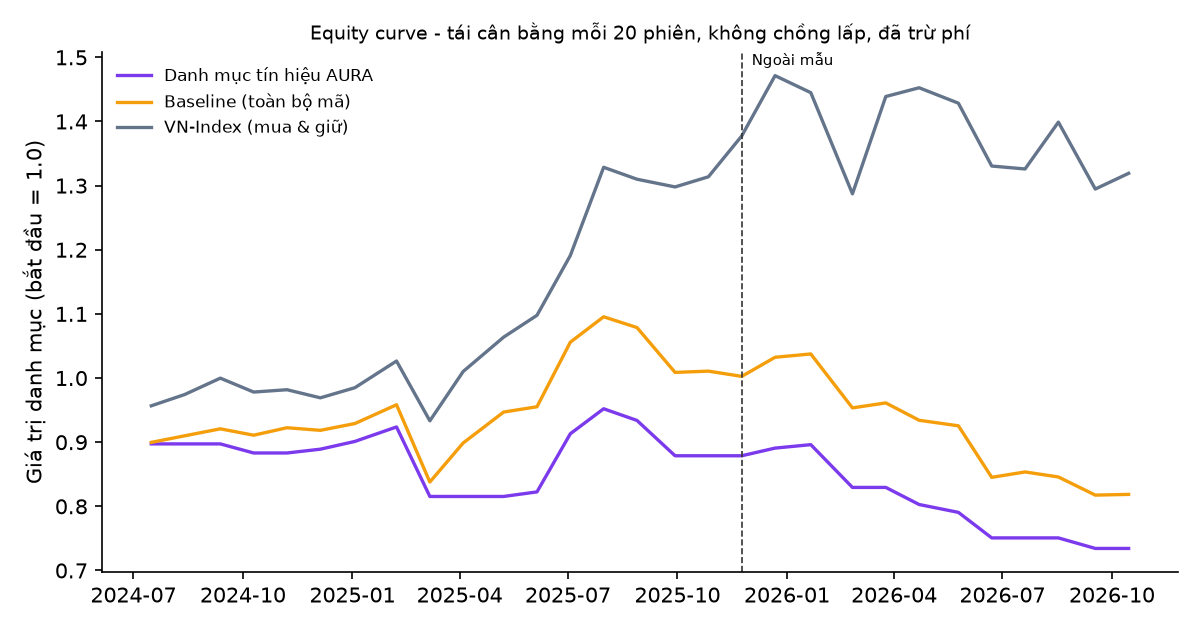
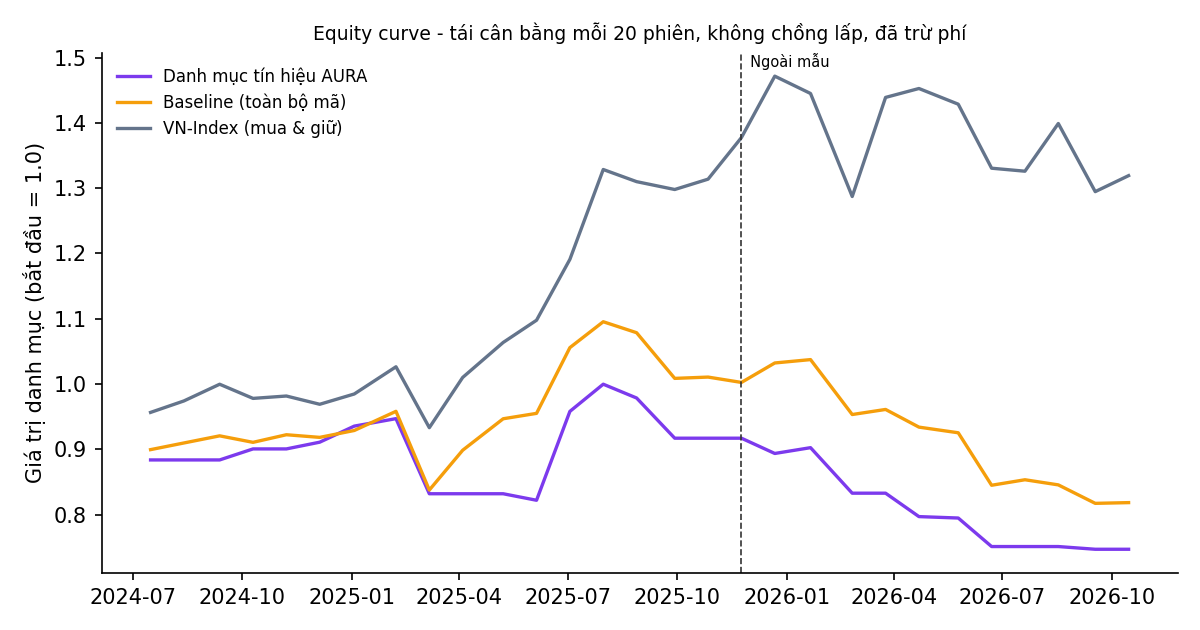
nâng ngưỡng điểm 60->80 theo nguồn Validea/Piotroski, chạy lại backtest, fix import test

diff --git a/core/aura_backtest.py b/core/aura_backtest.py
@@ -5,7 +5,8 @@ các phiên SAU ĐÓ tốt hơn (a) VN-Index và (b) toàn bộ mã đủ điề
 
 Quy tắc (đóng băng, giống core/strategy.py):
 - Điểm kỹ thuật = diem_ta(): giá/MA20/MA50, động lượng 63 phiên, RSI14 Wilder, KL20/KL60 (0–100).
-- Tín hiệu tại đóng cửa phiên t: điểm ≥ 60, đủ ≥ 200 phiên, GTGD TB20 ≥ 2 tỷ, VN-Index ≥ MA50.
+- Tín hiệu tại đóng cửa phiên t: điểm ≥ 80, đủ ≥ 200 phiên, GTGD TB20 ≥ 2 tỷ, VN-Index ≥ MA50.
+  (Ngưỡng nâng từ 60 lên 80 ngày 24/11/2026, cùng lúc với core/strategy.py, theo quy ước Validea/Piotroski — xem README mục 4.5.)
 - Vào lệnh giá MỞ CỬA phiên t+1 (không nhìn trước); thoát giá đóng cửa phiên t+h.
 - Chi phí khứ hồi mặc định 0,40% (phí mua/bán + thuế bán 0,1%), có thể chỉnh.
 - Lấy mẫu mỗi 5 phiên để giảm chồng lấp; chia trong mẫu / ngoài mẫu theo ngày.
@@ -22,7 +23,7 @@ from pathlib import Path
 import numpy as np
 import pandas as pd
 
-THRESHOLD = 60.0
+THRESHOLD = 80.0
 MIN_BARS = 200
 MIN_GTGD = 2e9
 COST_ROUNDTRIP = 0.004
@@ -166,7 +167,7 @@ def summarize(ev: pd.DataFrame) -> pd.DataFrame:
     for period in ("Trong mẫu", "Ngoài mẫu", "Toàn bộ"):
         p = ev if period == "Toàn bộ" else ev.loc[ev["period"].eq(period)]
         for h in HORIZONS:
-            for group, g in (("Tín hiệu AURA (điểm ≥ 60, VN-Index ≥ MA50)", p.loc[p["signal"]]),
+            for group, g in (("Tín hiệu AURA (điểm ≥ 80, VN-Index ≥ MA50)", p.loc[p["signal"]]),
                              ("Toàn bộ mã đủ điều kiện (baseline)", p)):
                 n, mean, med, win, _ = _stats(g[f"ret_{h}"])
                 _, ex, _, beat, _ = _stats(g[f"excess_{h}"])

diff --git a/core/strategy.py b/core/strategy.py
@@ -59,7 +59,7 @@ def tinh_diem_x10(gia, kq, ty_so, vni):
     moi = (hom_nay - pd.Timestamp(gia["time"].iloc[-1])).days <= 5
     du = len(gia) >= 200 and moi
 
-    mua = [("Điểm thống nhất ≥ 60", "Đạt" if tong >= 60 else "Không đạt",
+    mua = [("Điểm thống nhất ≥ 80", "Đạt" if tong >= 80 else "Không đạt",
             f"{tong:.1f}/100 (kỹ thuật {ta:.1f}, cơ bản {fa:.1f})" if co_fa else f"{tong:.1f}/100 (chỉ kỹ thuật; chưa có BCTC)"),
            ("Dữ liệu đầy đủ, phiên mới nhất", "Đạt" if du else "Không đạt",
             f"{len(gia)} phiên, phiên cuối {gia['time'].iloc[-1]:%d/%m/%Y}"),
@@ -93,7 +93,7 @@ def tinh_diem_x10(gia, kq, ty_so, vni):
     passes_required = bool(required) and all(row[1] == "Đạt" for row in required)
     if risk_hits >= 2 or tong < 35:
         tin_hieu = "TRÁNH / RỦI RO CAO"
-    elif risk_hits == 0 and passes_required and tong >= 60 and co_fa and vni is not None:
+    elif risk_hits == 0 and passes_required and tong >= 80 and co_fa and vni is not None:
         tin_hieu = "CÓ THỂ XEM XÉT MUA"
     elif risk_hits:
         tin_hieu = "THEO DÕI · CẢNH BÁO"

diff --git a/core/aura_smart_rating_v7.py b/core/aura_smart_rating_v7.py
@@ -225,7 +225,7 @@ def render_smart_rating_v7(root: Path, scan_result=None) -> None:
                'Không lấy điểm cơ bản X10 40/50/60 mặc định làm điểm BCTC đã kiểm chứng.')
     template = verified_template([])
     with st.expander('Nguồn BCTC, dữ liệu cần bổ sung và quy tắc chấm', expanded=False):
-        st.markdown('**Trọng số dự kiến:** kỹ thuật 50% · cơ bản 35% · định giá 15%. '
+        st.markdown('**Trọng số dự kiến:** kỹ thuật ~33% · cơ bản ~33% · định giá ~34% (chia đều). '
                     'Chỉ tổng hợp nếu đủ cả 3 nhóm. Cùng ngày chốt EOD, không nhìn trước ngày công bố.')
         st.markdown('**Công ty phi ngân hàng:** ROE, ROA, biên lợi nhuận, tăng trưởng EPS, '
                     'nợ/VCSH, khả năng thanh toán; **ngân hàng:** ROE, ROA, NPL và CAR '

diff --git a/tests/test_index_live.py b/tests/test_index_live.py
@@ -12,7 +12,7 @@ from core.ssi_index_parse import parse_index_message  # noqa: E402
 from core.vnindex_dashboard import market_data  # noqa: E402
 
 VN = ZoneInfo("Asia/Ho_Chi_Minh")
-NOW = datetime(2026, 11, 16, 10, 20, tzinfo=VN).astimezone(timezone.utc)
+NOW = datetime.now(VN).replace(hour=10, minute=20, second=0, microsecond=0).astimezone(timezone.utc)
 
 
 class IndexTickMessage:

diff --git a/tests/test_ratio_periods_v32.py b/tests/test_ratio_periods_v32.py
@@ -2,6 +2,8 @@ import tempfile
 import unittest
 from pathlib import Path
 import pandas as pd
+import sys
+sys.path.insert(0, str(Path(__file__).resolve().parent.parent / "scripts"))
 from audit_ratio_periods_v32 import audit_one
 
 class TestRatioAudit(unittest.TestCase):

diff --git a/tests/test_audit_fundamentals_v3.py b/tests/test_audit_fundamentals_v3.py
@@ -4,6 +4,8 @@ from pathlib import Path
 
 import pandas as pd
 
+import sys
+sys.path.insert(0, str(Path(__file__).resolve().parent.parent / "scripts"))
 from audit_fundamentals_v3 import audit, normalize
 
 
